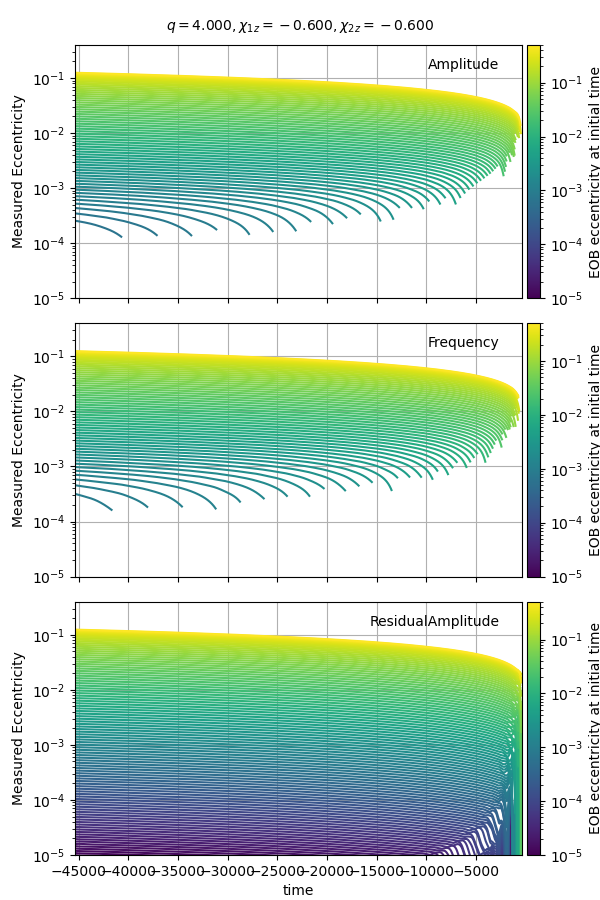
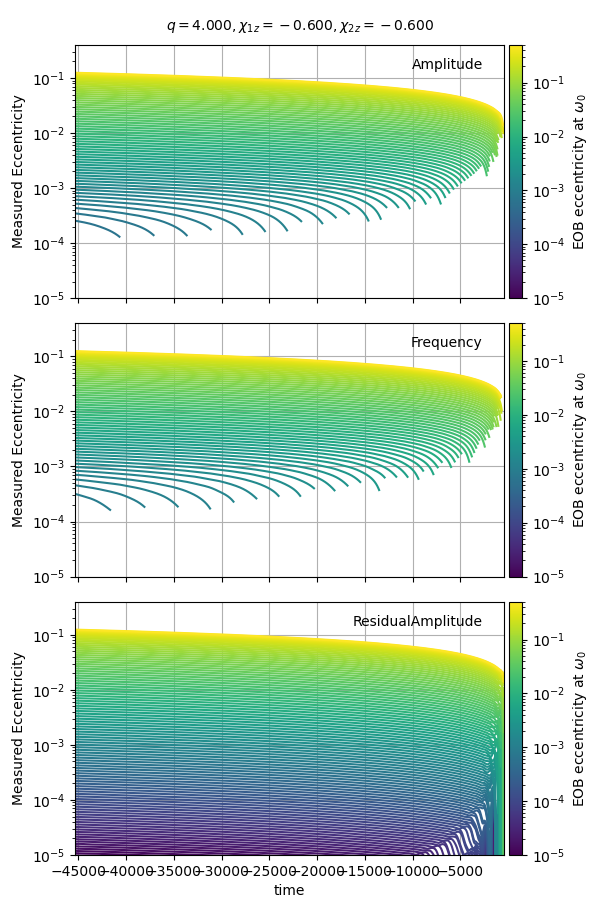
changed colorbar label

Changed region(s): [[0.12, 0.0311, 1.0, 0.9956], [0.12, 0.2489, 0.15, 0.3111], [0.27, 0.0622, 0.3, 0.0933]]

diff --git a/EccTests/TestEOBvsMeasuredEcc/test_measured_ecc_vs_time.py b/EccTests/TestEOBvsMeasuredEcc/test_measured_ecc_vs_time.py
@@ -30,6 +30,8 @@ parser = argparse.ArgumentParser(
     description=(__doc__),
     formatter_class=SmartFormatter)
 
+EOBeccs = 10**np.linspace(-5, np.log10(0.5), 100)
+
 parser.add_argument(
     "--data_dir", "-d",
     type=str,
@@ -46,13 +48,17 @@ parser.add_argument(
 parser.add_argument(
     "--emax",
     type=float,
-    required=False,
-    help="Maximum ecc value to test.")
+    default=max(EOBeccs),
+    help=("Maximum EOB ecc value to test. Useful to set when we want to "
+          "perform the test on EOB ecc upto certain max value to focus "
+          "on low eccs."))
 parser.add_argument(
     "--emin",
     type=float,
-    required=False,
-    help="Minimum ecc value to test.")
+    default=min(EOBeccs),
+    help=("Minimum EOB ecc value to test. Useful to set when we want to "
+          "perform the test on EOB ecc above certain min value to focus "
+          "on high eccs."))
 parser.add_argument(
     "--param_set_key", "-p",
     type=str,
@@ -77,12 +83,9 @@ parser.add_argument(
           "Can be any format that matplotlib supports."))
 
 args = parser.parse_args()
-EOBeccs = 10**np.linspace(-5, np.log10(0.5), 100)
 # do the test for eccentricity values between emin and emax
-if args.emin:
-    EOBeccs = EOBeccs[EOBeccs >= args.emin]
-if args.emax:
-    EOBeccs = EOBeccs[EOBeccs <= args.emax]
+EOBeccs = EOBeccs[EOBeccs >= args.emin]
+EOBeccs = EOBeccs[EOBeccs <= args.emax]
 
 cmap = cm.get_cmap("viridis")
 colors = cmap(np.linspace(0, 1, len(EOBeccs)))
@@ -150,7 +153,7 @@ def plot_waveform_ecc_vs_time(method, set_key, fig, ax):
     cax = divider.append_axes('right', size='3%', pad=0.05)
     sm = plt.cm.ScalarMappable(cmap=cmap, norm=norm)
     cbar = fig.colorbar(sm, cax=cax, orientation='vertical')
-    cbar.set_label("EOB eccentricity at initial time",
+    cbar.set_label(r"EOB eccentricity at $\omega_0$",
                    size=10)
     fig.suptitle(rf"$q={q:.3f}, \chi_{{1z}}={chi1z:.3f}, \chi_{{2z}}={chi2z:.3f}$",
                  size=10)
@@ -183,6 +186,6 @@ for key in args.param_set_key:
             ax.set_xlabel("time")
     plt.subplots_adjust(bottom=0.05,
                         top=0.95,
-                        right=0.9,
+                        right=0.87,
                         hspace=0.1)
     fig.savefig(f"{fig_name}")
